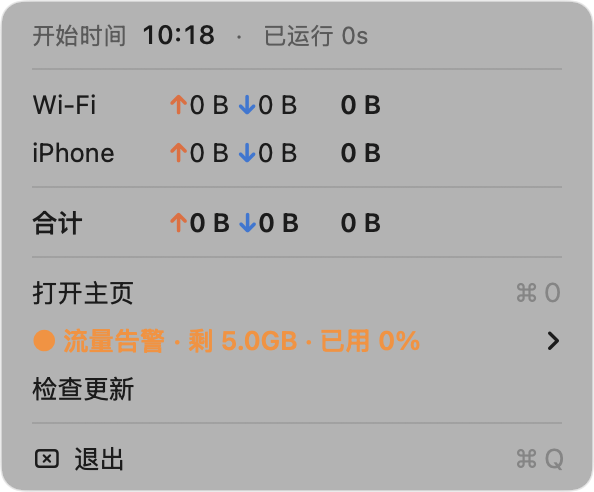
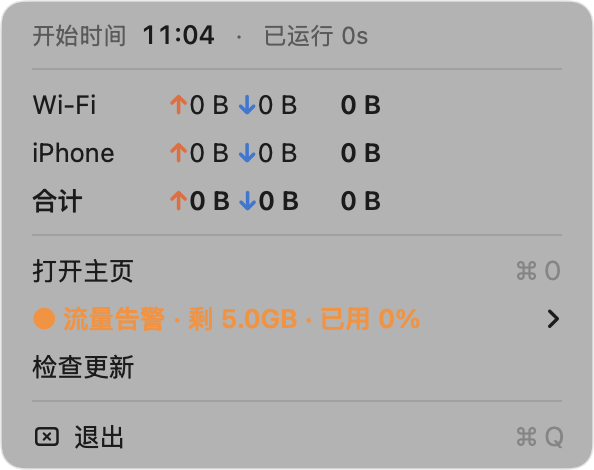
change: 菜单合计行去掉分隔线；主页模块卡片改左右并排
合计行直接紧邻模块行，仅靠 semibold 区分层级；卡片左右并排
（整页布局不变），卡内竖排：速率 ↓/↑ 各一行、累计两行

diff --git a/Sources/TrafficMonitor/HomePageController.swift b/Sources/TrafficMonitor/HomePageController.swift
@@ -138,40 +138,39 @@ final class HomePageController {
             summaryValues.append(value)
         }
 
-        // 左列接口卡片：上下堆叠；每卡两行——上行「标题 + 开始信息 + 重置」，下行「速率 + 累计」
+        // 左列接口卡片：左右并排（整块区域与外部布局不变）；每卡竖排——标题+开始信息 / 速率两行 / 累计两行
         let cardSpecs: [(InterfaceCategory, CGFloat)] = [
-            (.wifi, 274),
-            (.iphone, 180),
+            (.wifi, 24),
+            (.iphone, 259),
         ]
-        for (category, y) in cardSpecs {
-            let card = roundedCard(frame: NSRect(x: 24, y: y, width: 456, height: 86))
+        for (category, x) in cardSpecs {
+            let card = roundedCard(frame: NSRect(x: x, y: 180, width: 221, height: 182))
             content.addSubview(card)
             updateBaseViews.append(card)
 
             let title = makeLabel(size: 13, color: .labelColor, weight: .semibold)
-            title.frame = NSRect(x: 18, y: 56, width: 240, height: 18)
+            title.frame = NSRect(x: 14, y: 158, width: 150, height: 18)
             let meta = makeLabel(size: 10, color: .tertiaryLabelColor, weight: .regular)
-            meta.frame = NSRect(x: 258, y: 58, width: 160, height: 16)
-            meta.alignment = .right
+            meta.frame = NSRect(x: 14, y: 142, width: 193, height: 14)
             if let resetIcon = NSImage(systemSymbolName: "arrow.counterclockwise",
                                        accessibilityDescription: "重置计量") {
                 let reset = NSButton(image: resetIcon, target: self, action: #selector(resetCategory(_:)))
                 reset.isBordered = false
                 reset.contentTintColor = .secondaryLabelColor
-                reset.setFrameOrigin(NSPoint(x: 456 - 34, y: 54))
+                reset.setFrameOrigin(NSPoint(x: 221 - 32, y: 160))
                 reset.toolTip = "重置计量"
                 reset.identifier = NSUserInterfaceItemIdentifier(category == .wifi ? "wifi" : "iphone")
                 card.contentView?.addSubview(reset)
             }
             let rate = makeLabel(size: 12, color: .labelColor, weight: .regular)
-            rate.frame = NSRect(x: 18, y: 12, width: 280, height: 40)
-            // 累计两行：说明字 + 右侧 ↑/↓ 两行等宽数值（三位数以上量级也不越界）
+            rate.frame = NSRect(x: 14, y: 70, width: 193, height: 62)
+            // 累计两行：说明字 + ↑/↓ 两行等宽数值（三位数以上量级也不越界）
             let totalCaption = makeLabel(size: 10, color: .tertiaryLabelColor, weight: .regular)
             totalCaption.stringValue = "累计"
-            totalCaption.frame = NSRect(x: 334, y: 27, width: 26, height: 14)
+            totalCaption.frame = NSRect(x: 14, y: 32, width: 26, height: 14)
             let total = makeLabel(size: 11, color: .secondaryLabelColor, weight: .regular)
             total.font = .monospacedDigitSystemFont(ofSize: 11, weight: .regular)
-            total.frame = NSRect(x: 362, y: 14, width: 76, height: 36)
+            total.frame = NSRect(x: 44, y: 18, width: 163, height: 36)
             total.lineBreakMode = .byClipping
             for label in [title, rate, total, meta, totalCaption] {
                 card.contentView?.addSubview(label)
@@ -496,10 +495,11 @@ final class HomePageController {
 
             let down = ByteFormat.rateParts(rate.rx)
             let up = ByteFormat.rateParts(rate.tx)
+            // 卡片为窄卡竖排：↓/↑ 速率各占一行
             let rateText = NSMutableAttributedString(attributedString: Self.attributedRate(
                 arrow: "↓", accent: Self.downloadAccent,
                 value: down.value, unit: down.unit, numberSize: 19, unitSize: 11))
-            rateText.append(NSAttributedString(string: "   "))
+            rateText.append(NSAttributedString(string: "\n"))
             rateText.append(Self.attributedRate(
                 arrow: "↑", accent: Self.uploadAccent,
                 value: up.value, unit: up.unit, numberSize: 19, unitSize: 11))

diff --git a/Sources/TrafficMonitor/TrafficMonitorApp.swift b/Sources/TrafficMonitor/TrafficMonitorApp.swift
@@ -77,7 +77,6 @@ final class MenuBarController: NSObject, NSMenuDelegate, UNUserNotificationCente
         menu.addItem(.separator())
         menu.addItem(wifiItem)
         menu.addItem(iphoneItem)
-        menu.addItem(.separator())
         menu.addItem(totalItem)
         menu.addItem(.separator())
         menu.addItem(openHome)

diff --git a/CHANGELOG.md b/CHANGELOG.md
@@ -10,13 +10,14 @@
 ### 新增 (Added)
 
 - 状态栏菜单新增「合计」行：所有模块累计上行 + 下行与合并总量（与告警同口径），
-  数值加重、上方带分隔线
+  数值加重，与模块行紧邻
 
 ### 变更 (Changed)
 
 - 状态栏菜单 Wi-Fi / iPhone / 合计行改为按内容实测宽度动态计算对齐位，
   数值再大也不折行，面板随之加宽
-- 主页模块卡片「累计」改为两行堆叠展示（↑上行 / ↓下行），三位数以上数值不再越界
+- 主页 Wi-Fi / iPhone 模块卡片改为左右并排（整页布局不变），卡内竖排：
+  速率 ↓/↑ 各占一行，「累计」两行堆叠，三位数以上数值不再越界
 - 速率图当前速率标注固定在右上（下载）/ 右下（上传）角落并改用系列色，
   不再跟随折线端点、不被线条遮挡
 
